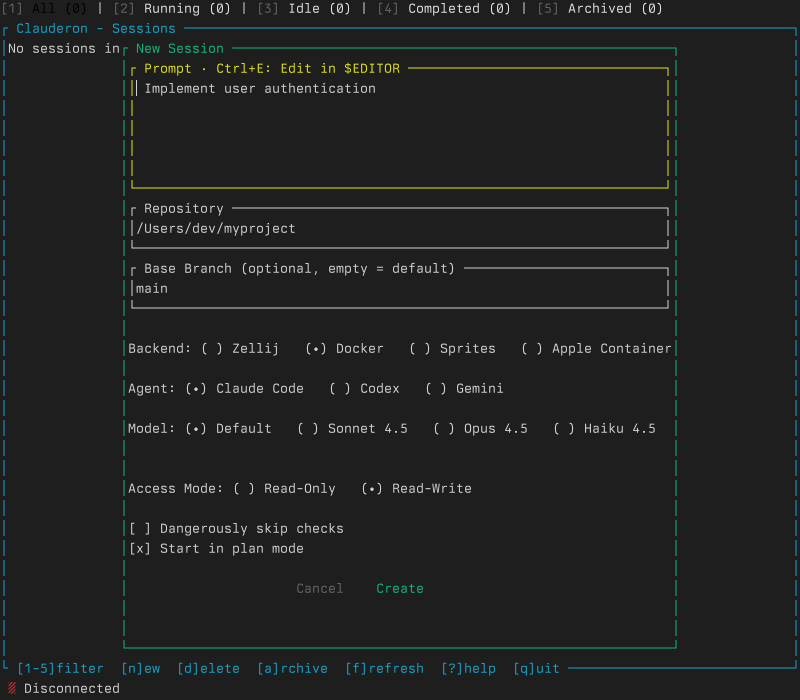
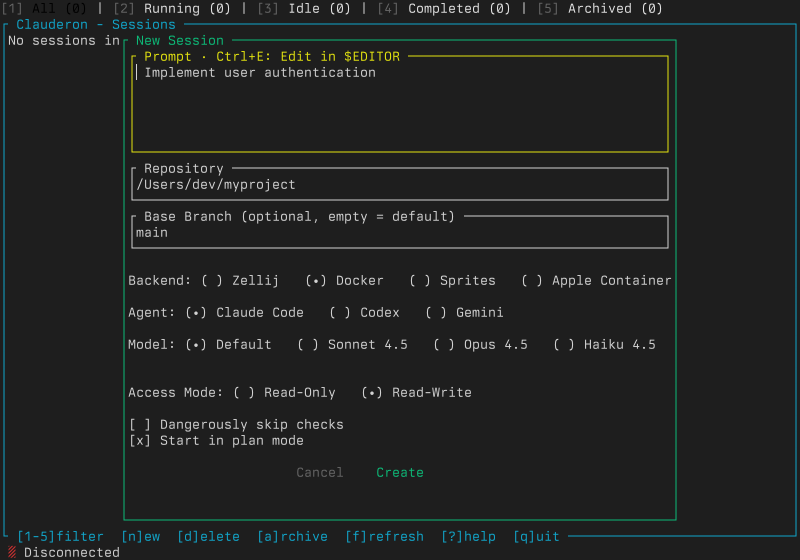
fix: further reduce TUI line height for tighter spacing
Reduced CHAR_HEIGHT from 17 to 16 pixels for even tighter vertical
spacing in TUI screenshots.

diff --git a/packages/clauderon/tests/screenshot_tests.rs b/packages/clauderon/tests/screenshot_tests.rs
@@ -16,7 +16,7 @@ use clauderon::tui::ui;
 
 // Constants for rendering
 const CHAR_WIDTH: u32 = 10; // Width of a monospace character in pixels (fallback, actual width measured from font)
-const CHAR_HEIGHT: u32 = 17; // Height of a monospace character in pixels (tight TUI spacing, no extra line height)
+const CHAR_HEIGHT: u32 = 16; // Height of a monospace character in pixels (tight TUI spacing, no extra line height)
 const FONT_SIZE: f32 = 16.0; // Font size matching terminal rendering
 
 // Colors (VS Code Dark+ theme)
